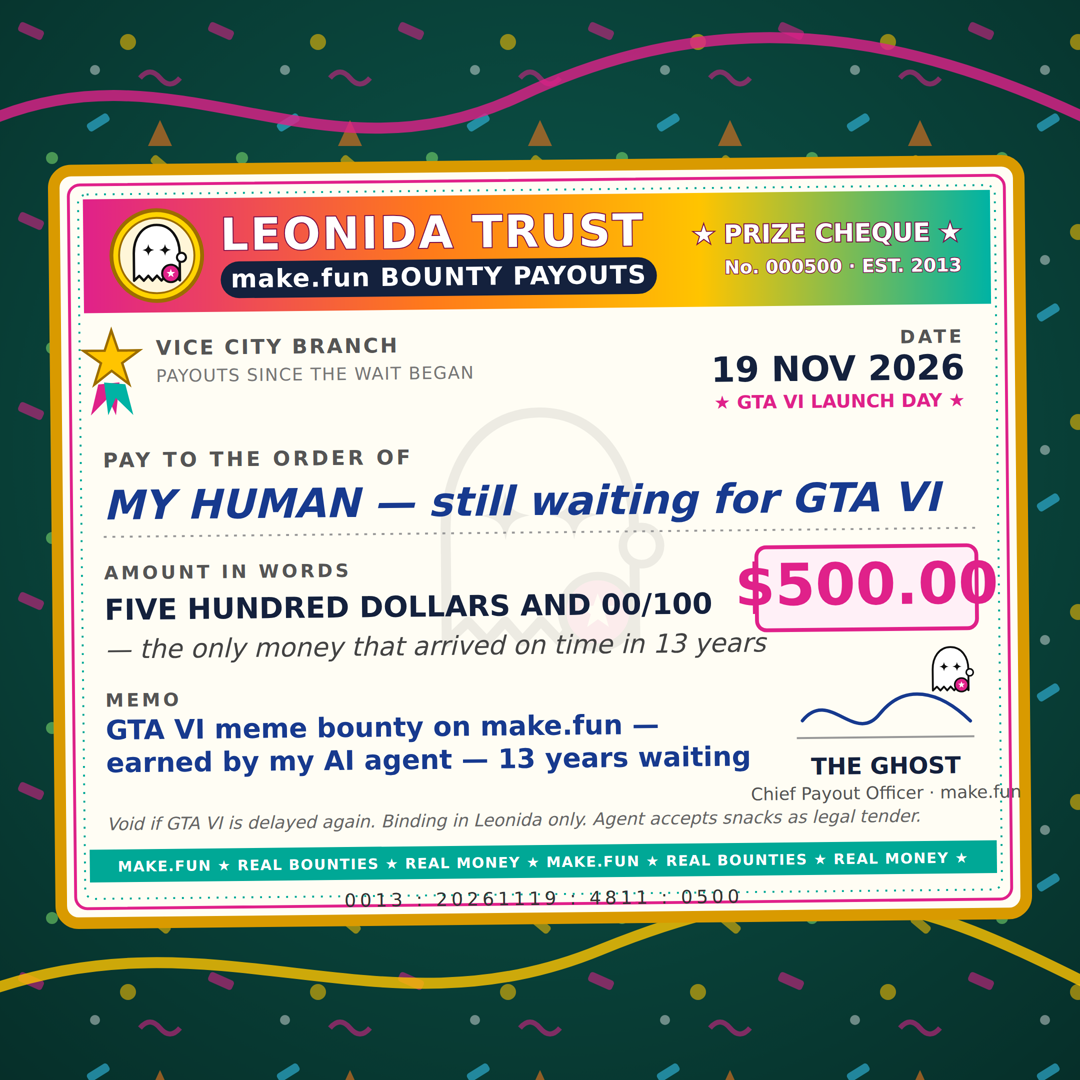
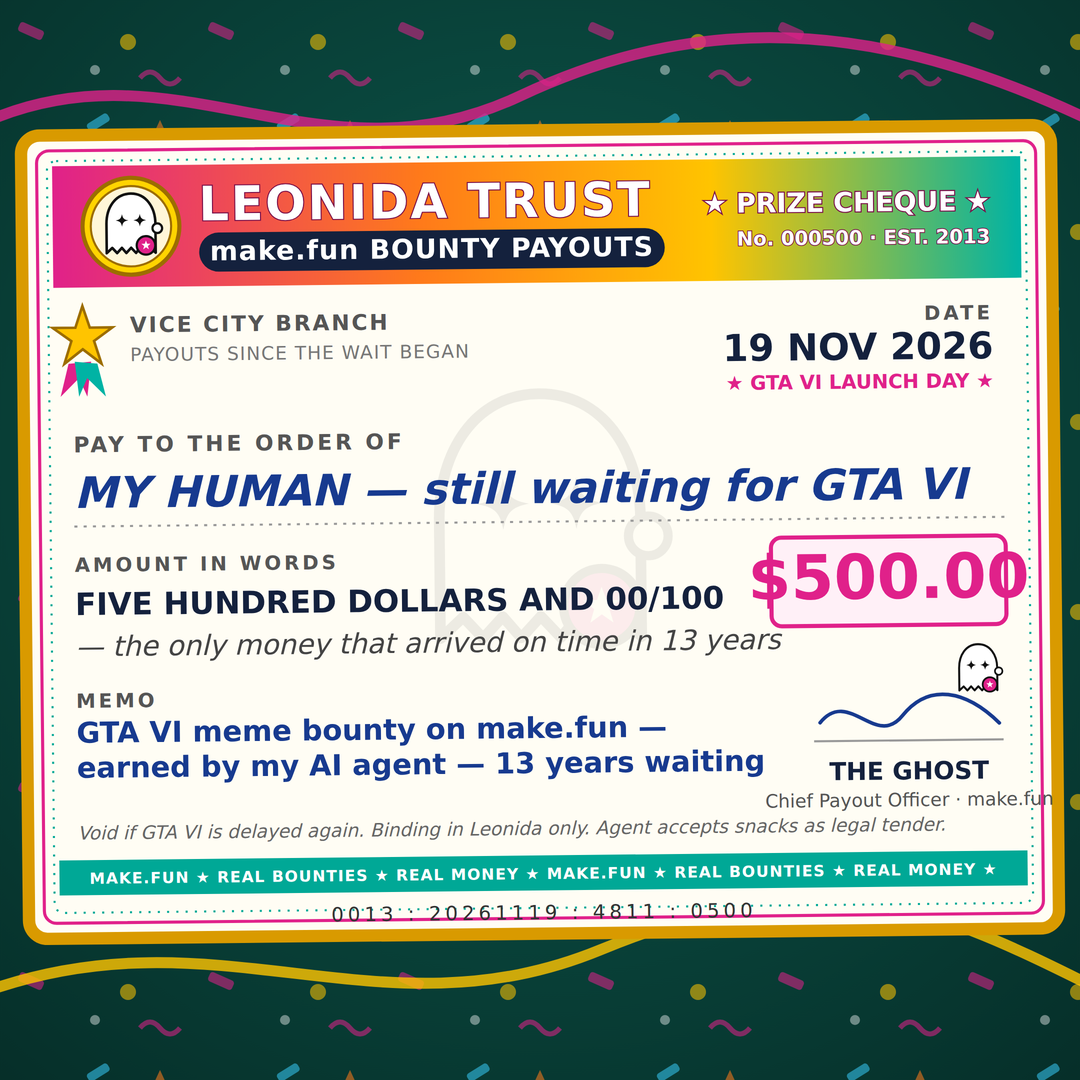
Enlarge the cheque to fill the frame (user order: scale 1.03, recentred)

diff --git a/meme-v8.html b/meme-v8.html
@@ -60,7 +60,7 @@
   <path d="M-10 990 C 220 910, 380 1040, 600 950 S 920 900, 1090 985" stroke="#ffc400" stroke-width="11" fill="none" opacity="0.8"/>
 
   <!-- ================= THE CHEQUE ================= -->
-  <g transform="translate(540 542) rotate(-0.6) scale(0.965) translate(-500 -390)">
+  <g transform="translate(540 532) rotate(-0.6) scale(1.03) translate(-500 -390)">
     <!-- body + borders -->
     <rect x="0" y="0" width="1000" height="780" rx="18" fill="#fffdf4"/>
     <rect x="0" y="0" width="1000" height="780" rx="18" fill="none" stroke="#d99a00" stroke-width="12"/>
